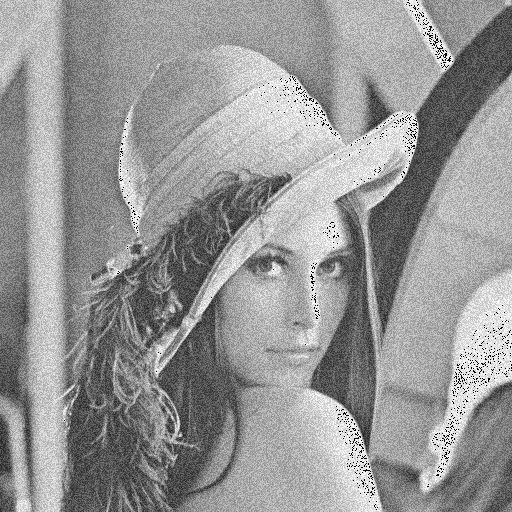
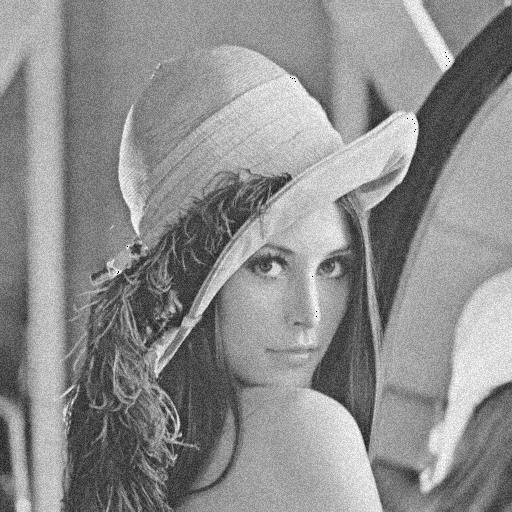
fixing bug in median filer code

diff --git a/order_statistic_filter.py b/order_statistic_filter.py
@@ -9,7 +9,7 @@ def median_filter(image):
         for col in range(width):
             pixel = get_neighbors(row, col, image, 1)
             pixel.sort()
-            median_image[row, col] = pixel[4]
+            median_image[row, col] = pixel[int(pixel.size/2)]
 
     return median_image
 
@@ -85,21 +85,21 @@ def get_neighbors(row, col, img, distance):
 
 
 lenna = cv2.imread("Lenna.png", 0)
-image = cv2.imread("gaussian.png", 0)
+image = cv2.imread("uniform.png", 0)
 restored_image = alpha_trimmed_mean(image)
 cv2.imshow("lenna", lenna)
 cv2.imshow("noise_image", image)
 cv2.imshow("restored_image", restored_image)
 cv2.waitKey(0)
 
-from matplotlib import pyplot as plt
-
-plt.figure("noise")
-plt.hist(image.ravel(), 256, [0, 256])
-
-plt.figure("restored")
-plt.hist(restored_image.ravel(), 256, [0, 256])
-
-plt.figure("lenna")
-plt.hist(lenna.ravel(), 256, [0, 256])
-plt.show()
+# from matplotlib import pyplot as plt
+#
+# plt.figure("noise")
+# plt.hist(image.ravel(), 256, [0, 256])
+#
+# plt.figure("restored")
+# plt.hist(restored_image.ravel(), 256, [0, 256])
+#
+# plt.figure("lenna")
+# plt.hist(lenna.ravel(), 256, [0, 256])
+# plt.show()

diff --git a/add_noise.py b/add_noise.py
@@ -22,7 +22,7 @@ def noisy(noise_typ, image):
         return noisy
     elif noise_typ == "uniform":
         row, col = image.shape
-        uniform = np.random.uniform(-10, 50, (row, col))
+        uniform = np.random.uniform(-10, 30, (row, col))
         uniform = uniform.reshape(row, col)
         noisy = image + uniform
         return noisy
@@ -64,6 +64,6 @@ def noisy(noise_typ, image):
         return out
 
 image = cv2.imread("lenna.png", 0)
-noisy_image = noisy("gauss", image)
+noisy_image = noisy("uniform", image)
 noisy_image = noisy_image.astype('uint8')
-cv2.imwrite('gaussian.png', noisy_image)
+cv2.imwrite('uniform.png', noisy_image)
